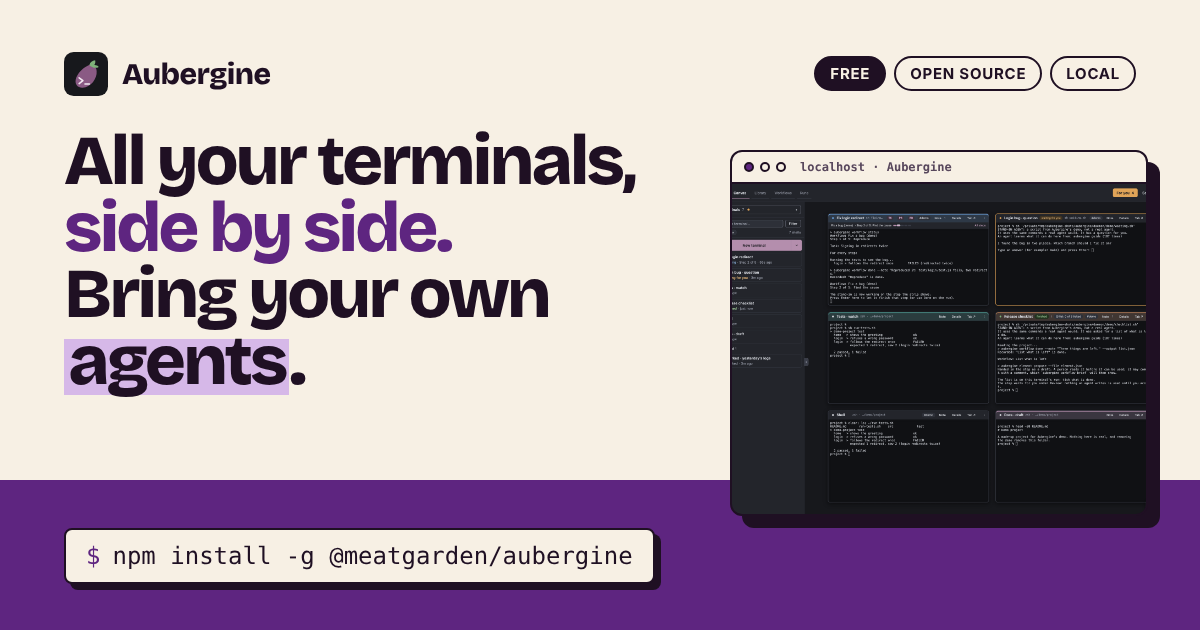
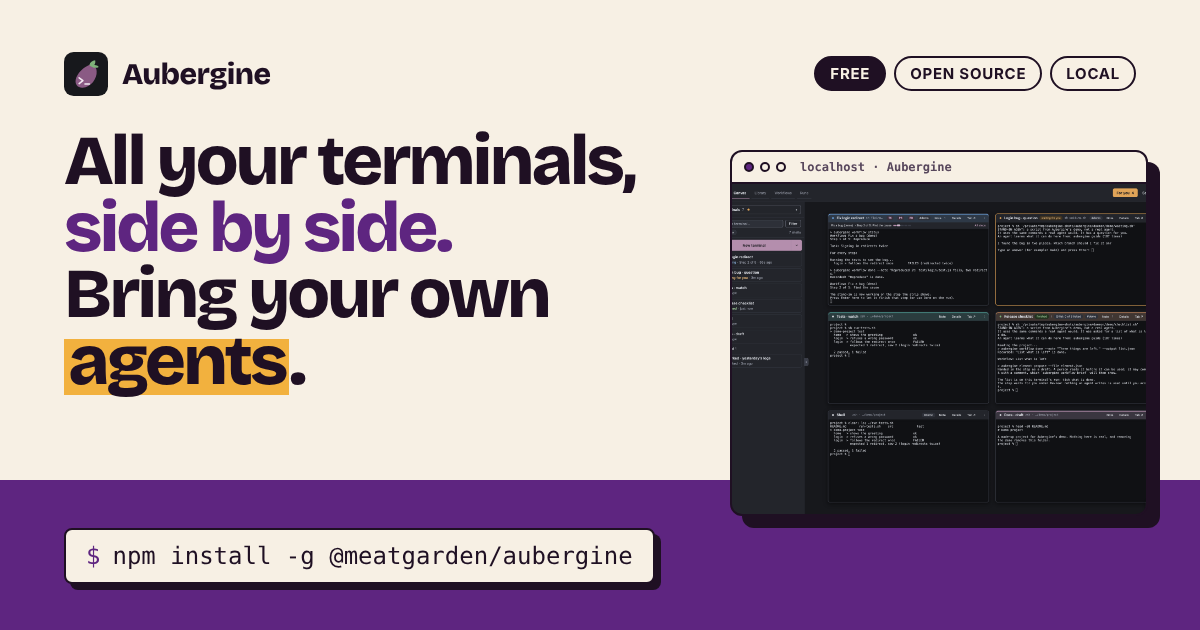
Site: the headline's highlighted word is amber, as in the chosen design
Claude-Session: https://claude.ai/code/session_011jV7PaBDCNMfJDETAJCyU3

Changed region(s): [[0.0308, 0.5127, 0.2467, 0.6333]]

diff --git a/site-src/style.css b/site-src/style.css
@@ -30,8 +30,8 @@
   --dark: #2A1233;         /* the dark band */
   --on-dark: #F7F0E4;      /* text on dark, purple and ink */
   --on-dark-soft: #D9C9DD; /* quieter text there */
-  --lavender: #D6B8E8;     /* the headline's stroke, marks on dark and ink */
-  --amber: #F2B13E;        /* waiting for you, and nothing else; the focus ring on dark grounds */
+  --lavender: #D6B8E8;     /* marks on dark and ink */
+  --amber: #F2B13E;        /* the highlighter: the headline's stroke and waiting for you; the focus ring on dark grounds */
   --hair: #CDBFC6;         /* a hairline between rows (not text) */
   --hair-dark: #5A3F63;    /* a hairline on the dark band (not text) */
   --focus: var(--purple);
@@ -278,7 +278,7 @@ pre code { font-size: 1em; overflow-wrap: normal; }
 .note-strong { border: var(--rule) solid var(--ink); border-inline-start-width: calc(var(--rule-start) * 2); border-radius: var(--radius); box-shadow: calc(var(--press) * 2 * var(--shadow-dir)) calc(var(--press) * 2) 0 var(--ink); font-size: var(--size-m); }
 [dir="rtl"] .note-strong { border-radius: var(--radius); }
 
-/* The highlighter: amber behind words that say "waiting for you", and only there. */
+/* The highlighter: amber behind the headline's word and behind words that say "waiting for you". */
 .waits { background: linear-gradient(to bottom, transparent 18%, var(--amber) 18% 92%, transparent 92%); padding-inline: 0.08em; margin-inline: -0.04em; box-decoration-break: clone; -webkit-box-decoration-break: clone; }
 
 /* ---------- bands ---------- */
@@ -308,7 +308,7 @@ pre code { font-size: 1em; overflow-wrap: normal; }
 .hero h1 { font-size: var(--size-h1); text-wrap: initial; }
 .hero h1 .line { display: block; }
 .hero h1 .line:nth-child(2) { color: var(--purple); }
-.hero h1 em { font-style: normal; background: linear-gradient(to bottom, transparent 24%, var(--lavender) 24% 90%, transparent 90%); padding-inline: 0.06em; margin-inline: -0.02em; box-decoration-break: clone; -webkit-box-decoration-break: clone; }
+.hero h1 em { font-style: normal; background: linear-gradient(to bottom, transparent 24%, var(--amber) 24% 90%, transparent 90%); padding-inline: 0.06em; margin-inline: -0.02em; box-decoration-break: clone; -webkit-box-decoration-break: clone; }
 
 .hero-under { display: grid; grid-template-columns: minmax(0, 1fr) minmax(0, 1.05fr); gap: var(--s-7); align-items: start; margin-block-start: var(--s-7); }
 .lead { font-size: var(--size-xl); line-height: 1.45; max-inline-size: 36ch; }

diff --git a/site/style.css b/site/style.css
@@ -30,8 +30,8 @@
   --dark: #2A1233;         /* the dark band */
   --on-dark: #F7F0E4;      /* text on dark, purple and ink */
   --on-dark-soft: #D9C9DD; /* quieter text there */
-  --lavender: #D6B8E8;     /* the headline's stroke, marks on dark and ink */
-  --amber: #F2B13E;        /* waiting for you, and nothing else; the focus ring on dark grounds */
+  --lavender: #D6B8E8;     /* marks on dark and ink */
+  --amber: #F2B13E;        /* the highlighter: the headline's stroke and waiting for you; the focus ring on dark grounds */
   --hair: #CDBFC6;         /* a hairline between rows (not text) */
   --hair-dark: #5A3F63;    /* a hairline on the dark band (not text) */
   --focus: var(--purple);
@@ -278,7 +278,7 @@ pre code { font-size: 1em; overflow-wrap: normal; }
 .note-strong { border: var(--rule) solid var(--ink); border-inline-start-width: calc(var(--rule-start) * 2); border-radius: var(--radius); box-shadow: calc(var(--press) * 2 * var(--shadow-dir)) calc(var(--press) * 2) 0 var(--ink); font-size: var(--size-m); }
 [dir="rtl"] .note-strong { border-radius: var(--radius); }
 
-/* The highlighter: amber behind words that say "waiting for you", and only there. */
+/* The highlighter: amber behind the headline's word and behind words that say "waiting for you". */
 .waits { background: linear-gradient(to bottom, transparent 18%, var(--amber) 18% 92%, transparent 92%); padding-inline: 0.08em; margin-inline: -0.04em; box-decoration-break: clone; -webkit-box-decoration-break: clone; }
 
 /* ---------- bands ---------- */
@@ -308,7 +308,7 @@ pre code { font-size: 1em; overflow-wrap: normal; }
 .hero h1 { font-size: var(--size-h1); text-wrap: initial; }
 .hero h1 .line { display: block; }
 .hero h1 .line:nth-child(2) { color: var(--purple); }
-.hero h1 em { font-style: normal; background: linear-gradient(to bottom, transparent 24%, var(--lavender) 24% 90%, transparent 90%); padding-inline: 0.06em; margin-inline: -0.02em; box-decoration-break: clone; -webkit-box-decoration-break: clone; }
+.hero h1 em { font-style: normal; background: linear-gradient(to bottom, transparent 24%, var(--amber) 24% 90%, transparent 90%); padding-inline: 0.06em; margin-inline: -0.02em; box-decoration-break: clone; -webkit-box-decoration-break: clone; }
 
 .hero-under { display: grid; grid-template-columns: minmax(0, 1fr) minmax(0, 1.05fr); gap: var(--s-7); align-items: start; margin-block-start: var(--s-7); }
 .lead { font-size: var(--size-xl); line-height: 1.45; max-inline-size: 36ch; }

diff --git a/docs/site.md b/docs/site.md
@@ -27,9 +27,9 @@ One idea: Aubergine on cream. A warm paper ground with near-black aubergine ink,
 - **One theme.** The cream look is the look for everyone: `color-scheme: light`, no `prefers-color-scheme` switch. The design is made of flat colour blocks (cream, lilac, purple, the dark band) whose order gives each page its rhythm; a second, dark palette would have to be a second design, and the captures of the app are already dark, so they stand out on cream. The page's `theme-color` is the cream.
 - **Tokens** (custom properties on `:root` in `site-src/style.css`; every colour, size, space, radius and shadow is one):
   - cream `#F7F0E4` (the ground), lilac `#EEE5EC` (every other section, notes, the translated-page strip), ink `#1F1023` (text, rules, hard shadows, command boxes), muted `#58475C` (what is said about a thing: intros, captions, the text under a name)
-  - purple `#5E2580` (the one colour: the stage band, the closing band, numerals, the primary button, the focus ring on light grounds), deep purple `#4A1D66` (a purple Copy button pointed at), dark `#2A1233` (the dark band), on-dark `#F7F0E4` and on-dark-soft `#D9C9DD` (text on dark, purple and ink), lavender `#D6B8E8` (the headline's stroke, the `$` of a command, marks on dark), amber `#F2B13E` (see below), hairline `#CDBFC6` (between table rows; not text)
+  - purple `#5E2580` (the one colour: the stage band, the closing band, numerals, the primary button, the focus ring on light grounds), deep purple `#4A1D66` (a purple Copy button pointed at), dark `#2A1233` (the dark band), on-dark `#F7F0E4` and on-dark-soft `#D9C9DD` (text on dark, purple and ink), lavender `#D6B8E8` (the `$` of a command, marks on dark), amber `#F2B13E` (see below), hairline `#CDBFC6` (between table rows; not text)
   - inline code sits on 8% of ink mixed into its ground (`#E6DED5` on cream, `#DDD4DC` on lilac), or 14% of cream on dark and purple (`#47314C`, `#73418E`); a note on the dark band is 8% of cream (`#3A2441`).
-  - **Contrast**, measured (WCAG 2), for every pair of text and ground the pages use: ink on cream 16.03, ink on lilac 14.74, muted on cream 7.50, muted on lilac 6.90, purple on cream 9.03, cream on purple 9.03, on-dark-soft on purple 6.50, cream on dark 15.04, on-dark-soft on dark 10.83, lavender on dark 9.64, cream on ink 16.03, lavender on ink 10.27, ink on lavender 10.27 (the headline's stroke), ink on amber 9.63, cream on deep purple 11.18, ink on code-on-cream 13.64, ink on code-on-lilac 12.56, muted on code-on-cream 6.38, cream on code-on-dark 10.23, on-dark-soft on code-on-dark 7.37, cream on code-on-purple 6.45, on-dark-soft on code-on-purple 4.64 (the lowest), on-dark-soft on a dark note 8.85, purple on lavender 5.79. A new pair is measured and added here.
+  - **Contrast**, measured (WCAG 2), for every pair of text and ground the pages use: ink on cream 16.03, ink on lilac 14.74, muted on cream 7.50, muted on lilac 6.90, purple on cream 9.03, cream on purple 9.03, on-dark-soft on purple 6.50, cream on dark 15.04, on-dark-soft on dark 10.83, lavender on dark 9.64, cream on ink 16.03, lavender on ink 10.27, ink on amber 9.63 (the headline's stroke and the highlighter), cream on deep purple 11.18, ink on code-on-cream 13.64, ink on code-on-lilac 12.56, muted on code-on-cream 6.38, cream on code-on-dark 10.23, on-dark-soft on code-on-dark 7.37, cream on code-on-purple 6.45, on-dark-soft on code-on-purple 4.64 (the lowest), on-dark-soft on a dark note 8.85, purple on lavender 5.79. A new pair is measured and added here.
 - **Type**: headings in Bricolage Grotesque 800 (variable, self-hosted from `site/fonts/` with its license beside it, Latin and Latin Extended only), tight (0.94 for the hero and page headings, 1.02 for section headings) and tracked in (−0.045em, −0.035em, −0.02em for smaller ones); text in the system's sans, so that every script reads in a face made for it; commands, crumbs and labels in the system's monospace. The scale: text 17px on 1.6; 13, 15 and 20px beside it; a lead of 20–26px; h3 20–26px, a big claim 30–52px, a prose heading 26–38px, a section heading 34–72px, a page's heading 38–88px, the hero 40–100px, numerals 52–104px (each a `clamp()` token). One measure for prose, 68 characters.
 - **Other scripts.** Languages the heading face has no letters for (Japanese, Chinese, Korean, Hindi, Bengali, Arabic) use the system's sans at the same weight: the stack says so. For them headings have no negative letter-spacing (it pulls Arabic apart) and looser leading (`:lang()` rules: 1.4 for Japanese, Chinese and Korean, 1.5 for Hindi and Bengali, 1.45 for Arabic; their h1 1.2 and 1.3), the giant sizes come down a step (CJK square letters fill a line faster; Indic and Arabic letters stand taller), and in Japanese, Chinese and Korean a heading's measure is in `em`, since a `ch` is half their letter. Korean breaks between words (`word-break: keep-all`), Japanese headings by phrase (`auto-phrase`, and anywhere if a phrase is wider than its box). German and Indonesian put long words in the headline: it is a step smaller there, and on a page head French, Spanish and Portuguese too, so no word breaks at 390px. The kicker's pills and the tag drop their capitals and tracking in those scripts. No font is loaded from another server.
 - **Layout**: an 84rem column with a gutter of 16–48px; sections are bands that run the whole width, each ended by a 2px ink rule, 64–128px of room inside. Everything is written with logical properties, so right-to-left is the same page mirrored, except what is not mirrored: the captures (a picture of the English app), the frame's title bar (`dir="ltr"`), commands, code and blocks of code (left to right, isolated), and the language menu's chevron (physical borders, so it points down).
@@ -46,8 +46,8 @@ One idea: Aubergine on cream. A warm paper ground with near-black aubergine ink,
   - *numbered steps*: purple numerals (`01`, `02`…) in the heading face beside each step, under 2px rules; on the home page's purple band, a cream square with the number.
   - *tables*: a 2px ink rule under the head, hairlines between rows, the first column semibold.
   - *the closing band*: every page ends on purple with a heading, a line, the install command and one or two buttons onward.
-- **The hero** is three lines: "All your terminals," in ink, "side by side." in purple, "Bring your own *agents*." in ink with the agents word on a lavender stroke (a flat band behind the letters, not amber: nothing in it waits). The three are separate strings (`home.hero.title.a`, `.b`, `.c`); the kicker is four pills (`home.hero.tag.*`), the first inked. Under it, the lead at the start and the command with the two buttons beside it. Then the real capture of the canvas, `canvas.png`, in the frame, standing half on the cream and half on the purple band (an inset shadow of cream on the band's top, so there is no gradient), with its caption on the purple. On a phone the capture is cropped to its right-hand top, where the terminals are.
-- **Amber has one meaning**: *waiting for you*. It is the highlighter stroke behind words that say so (the claim "The one that waits stands out", the row "See who is waiting") and, as in the app, nothing else; it is also the focus ring on the dark, purple and ink grounds, where purple would not show.
+- **The hero** is three lines: "All your terminals," in ink, "side by side." in purple, "Bring your own *agents*." in ink with the agents word on an amber stroke (a flat band behind the letters, the highlighter). The three are separate strings (`home.hero.title.a`, `.b`, `.c`); the kicker is four pills (`home.hero.tag.*`), the first inked. Under it, the lead at the start and the command with the two buttons beside it. Then the real capture of the canvas, `canvas.png`, in the frame, standing half on the cream and half on the purple band (an inset shadow of cream on the band's top, so there is no gradient), with its caption on the purple. On a phone the capture is cropped to its right-hand top, where the terminals are.
+- **Amber is the highlighter**: the stroke behind the headline's one word, and behind words that say *waiting for you* (the claim "The one that waits stands out", the row "See who is waiting"), which is what amber means in the app. It is used for nothing else, except as the focus ring on the dark, purple and ink grounds, where purple would not show.
 - **Pictures are readable.** A capture is of one part of the app at a size where its words can be read on the page (the list of terminals, one terminal that waits, the focus view, the For you column), except the hero's, which shows the whole canvas at once and links to the full-size file. Each has its width and height, an alt text that says what is in it, and loads lazily below the fold.
 - **Motion**: a button and a card press into their shadow in 120ms when pointed at; nothing else moves, and for someone who asked for less motion nothing transitions at all.
 - **A phone is a first reader**: at 390px nothing scrolls sideways, the top bar is one row of the mark, the language's short code (`{{=langshort}}`, its name staying its accessible name and in the menu) and Menu, both bordered boxes whose open list has the hard shadow; a command wraps inside its own box; rows and columns become one column, and a subject page's headings sit above their words.
